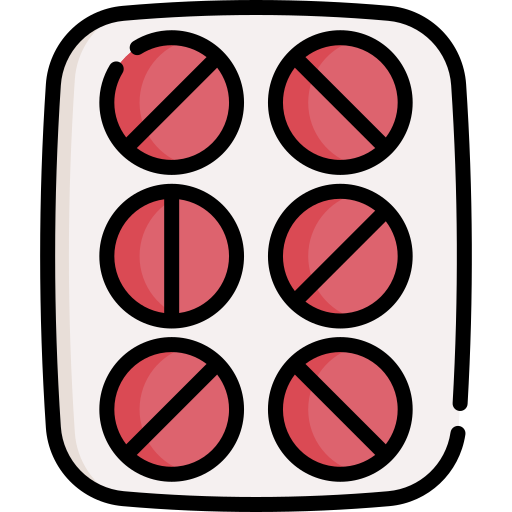
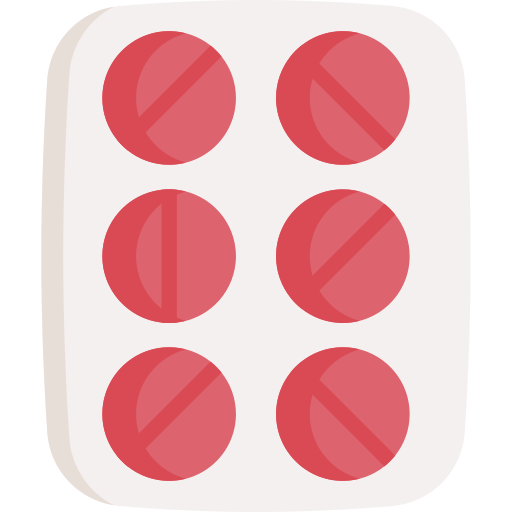
Adding 'did you take your meds' button

Changed region(s): [[0.0625, 0.0, 0.9375, 1.0], [0.5938, 0.2188, 0.625, 0.25]]

diff --git a/index.php b/index.php
@@ -63,6 +63,9 @@
                     <h3 class="section-title" id="physical">
                         <i class="fas fa-heartbeat"></i> Physical Health
                     </h3>
+                    <button type="button" id="medsBtn" title="Did you take your meds today?">
+                        <img src="assets/medicine.png"/>
+                    </button>
                     <!-- <ul id="medList">
                         <li>
                             <h4>DID YOU TAKE YOUR MEDS?</h4>
